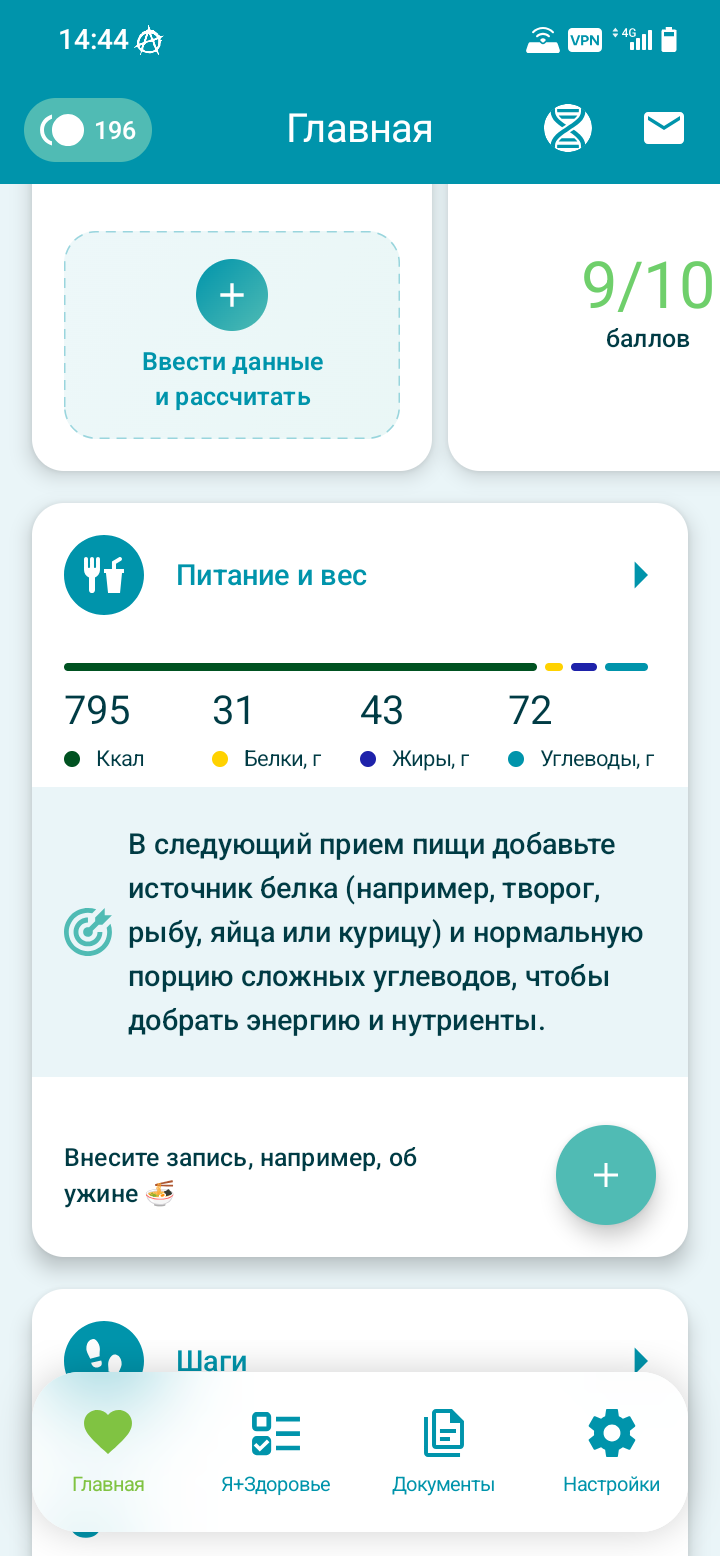
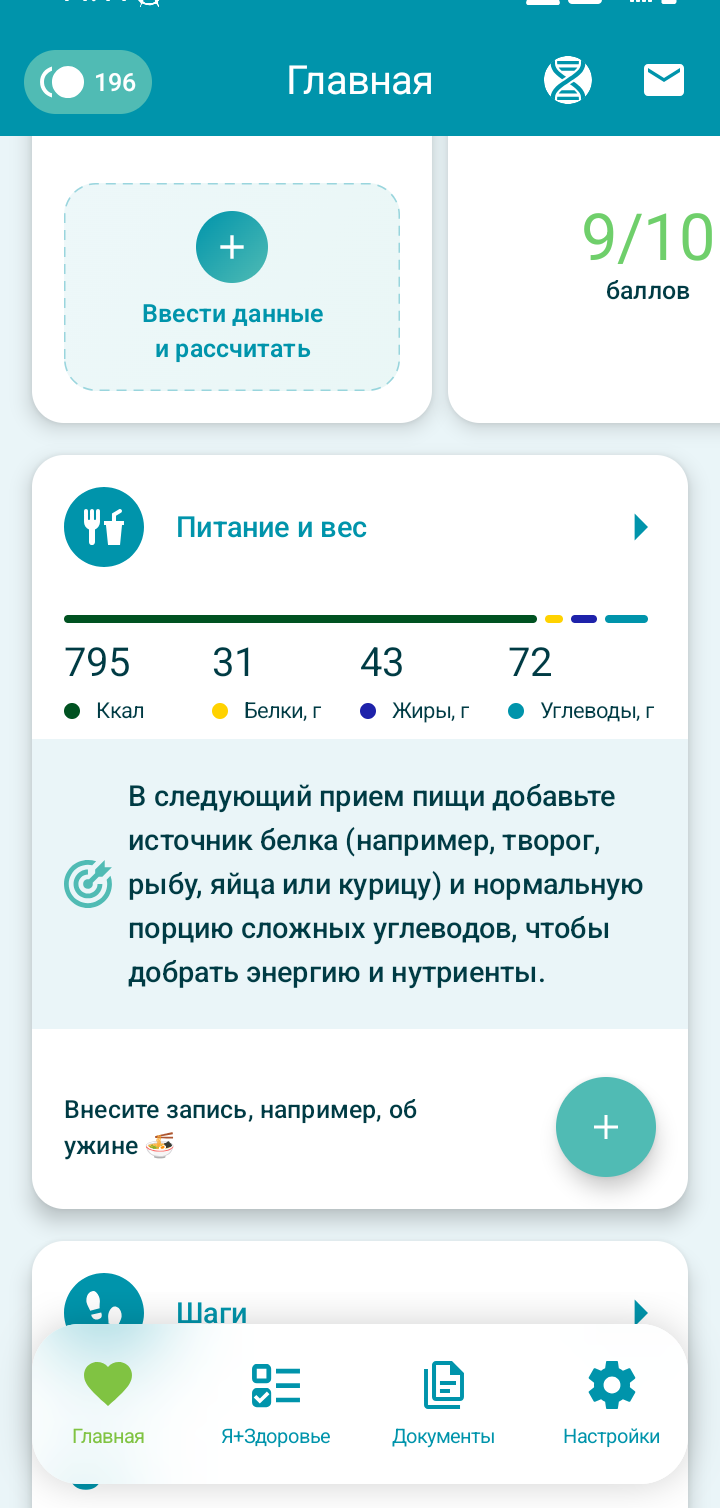
fix: crop Android status bar from screenshots

diff --git a/index.html b/index.html
@@ -165,7 +165,7 @@
               <img
                 src="./public/screenshots/food1.png"
                 width="720"
-                height="1556"
+                height="1508"
                 alt="Экран добавления блюда в дневник питания"
                 loading="lazy"
                 decoding="async"
@@ -173,7 +173,7 @@
               <img
                 src="./public/screenshots/food2.png"
                 width="720"
-                height="1556"
+                height="1508"
                 alt="Экран расчёта КБЖУ для блюда"
                 loading="lazy"
                 decoding="async"
@@ -195,7 +195,7 @@
               <img
                 src="./public/screenshots/habits1.png"
                 width="720"
-                height="1556"
+                height="1508"
                 alt="Недельный прогресс по выбранным привычкам"
                 loading="lazy"
                 decoding="async"
@@ -219,7 +219,7 @@
               <img
                 src="./public/screenshots/doc1.png"
                 width="720"
-                height="1556"
+                height="1508"
                 alt="Экран выбора способа загрузки анализов"
                 loading="lazy"
                 decoding="async"
@@ -227,7 +227,7 @@
               <img
                 src="./public/screenshots/doc2.png"
                 width="720"
-                height="1556"
+                height="1508"
                 alt="Экран распознанных результатов анализа"
                 loading="lazy"
                 decoding="async"
@@ -251,7 +251,7 @@
               <img
                 src="./public/screenshots/integration1.png"
                 width="720"
-                height="1556"
+                height="1508"
                 alt="Настройки подключённых устройств и Health Connect"
                 loading="lazy"
                 decoding="async"

diff --git a/tests/landing.test.js b/tests/landing.test.js
@@ -361,7 +361,7 @@ test("simplicity replaces the task directory with four editorial chapters", () =
     for (const screenshot of screenshots) {
       assert.deepEqual(
         pngSize(new URL(`../public/screenshots/${screenshot}`, import.meta.url)),
-        { width: 720, height: 1556 },
+        { width: 720, height: 1508 },
         screenshot,
       );
     }
